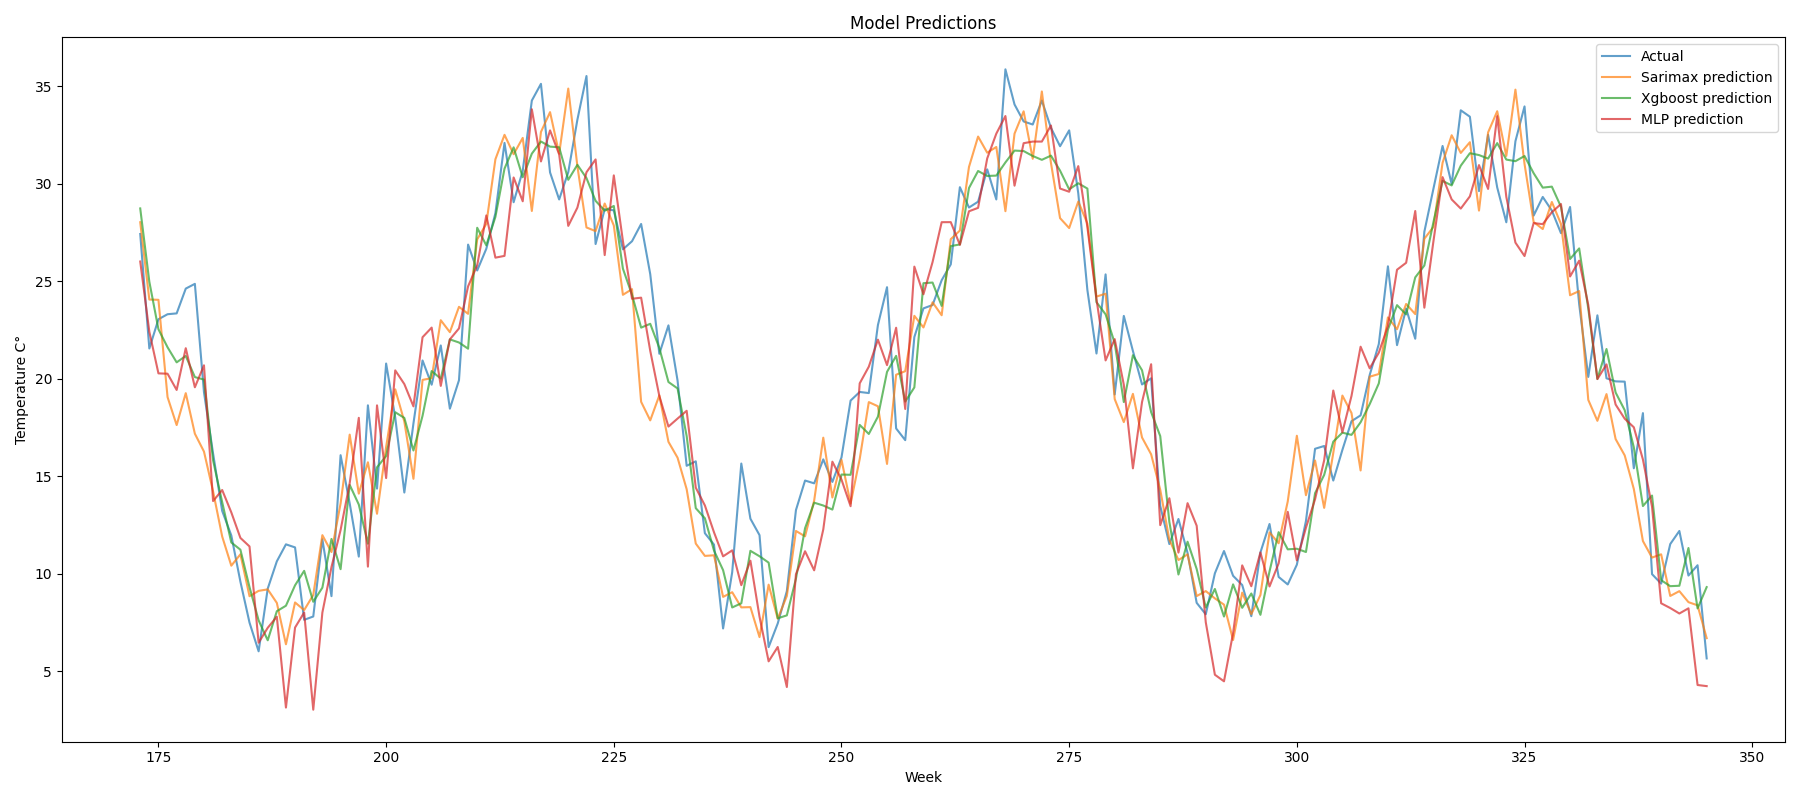
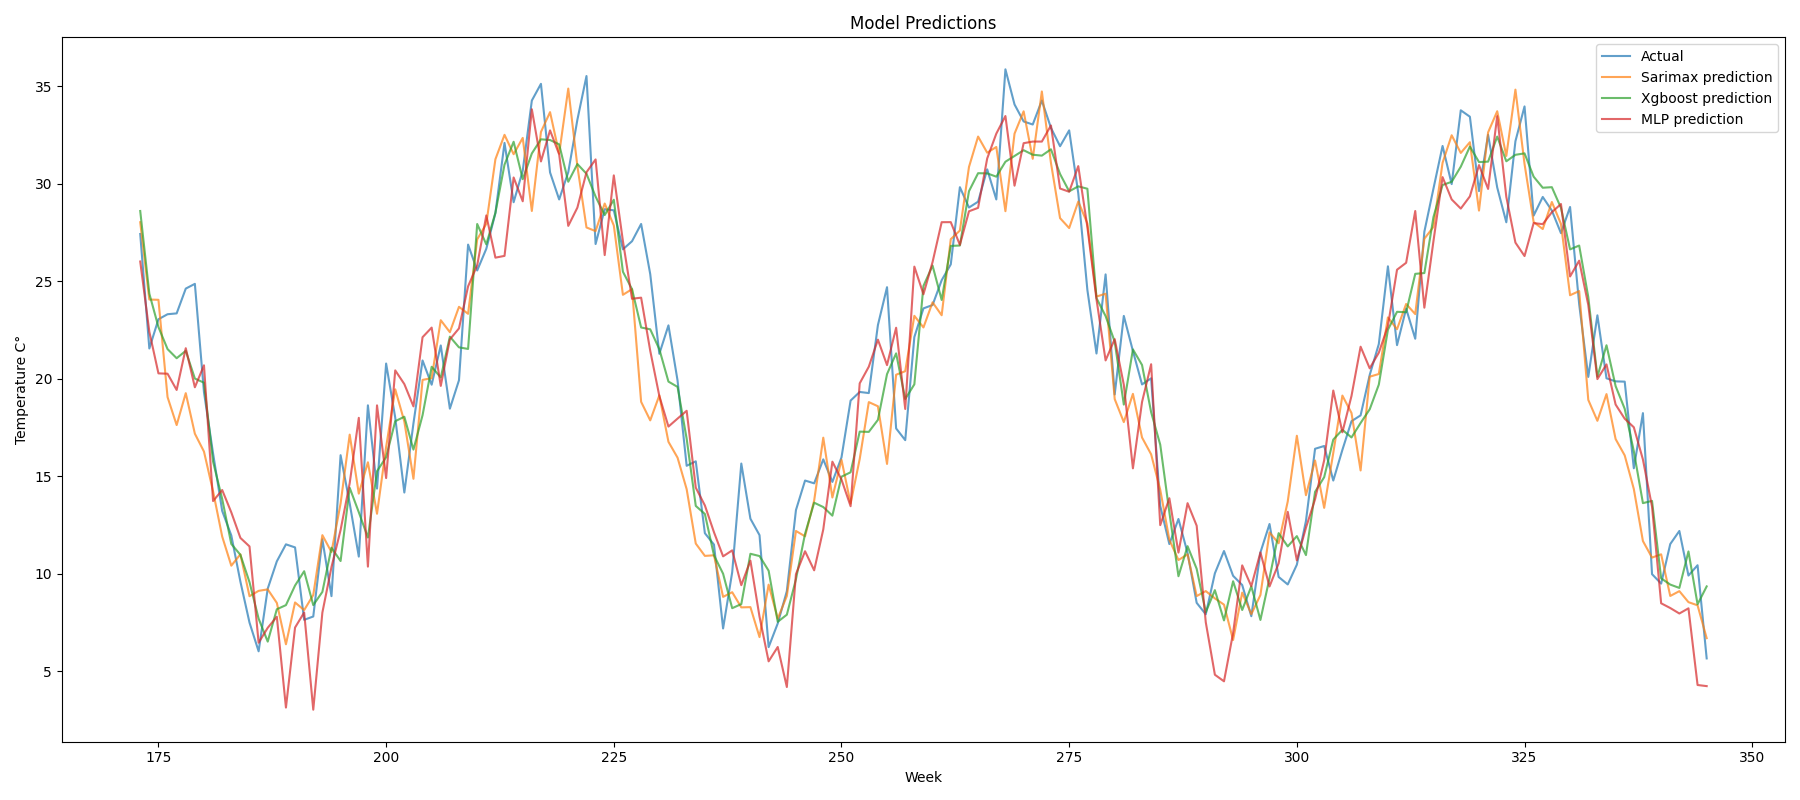
fix: mlp loss function

diff --git a/eraclito/project.py b/eraclito/project.py
@@ -100,16 +100,6 @@ def xgb_regressor(X_train, Y_train, X_valid, Y_valid):
 
     return best_model
 
-def sliding_forecast(model, last_window, horizon):
-    window = last_window.copy()
-    preds = []
-    for _ in range(horizon):
-        next_pred = model.predict(window.reshape(1, -1))[0]
-        preds.append(next_pred)
-        window = np.roll(window, -1)
-        window[-1] = next_pred
-    return np.array(preds)
-
 
 if __name__ == "__main__":
     set_seed()
@@ -375,14 +365,19 @@ if __name__ == "__main__":
         else:
             for epoch in range(n_epochs):
                 model.train()
+                epoch_loss = 0.0
                 for X_batch, Y_batch in train_loader:
                     optimizer.zero_grad()
                     pred = model(X_batch)
                     loss = loss_fn(pred, Y_batch)
                     loss.backward()
                     optimizer.step()
+                    epoch_loss += loss.item()
+
                 if epoch % 10 == 0:
-                    print(f'Finished epoch {epoch}, latest loss {loss}')
+                    avg_loss = epoch_loss / len(train_loader)
+                    print(f'Epoch {epoch}, avg loss: {avg_loss:.6f}')
+
 
             print("Saved MLP model to file: best_mlp.pt")
             torch.save(model.state_dict(), 'best_mlp.pt')
